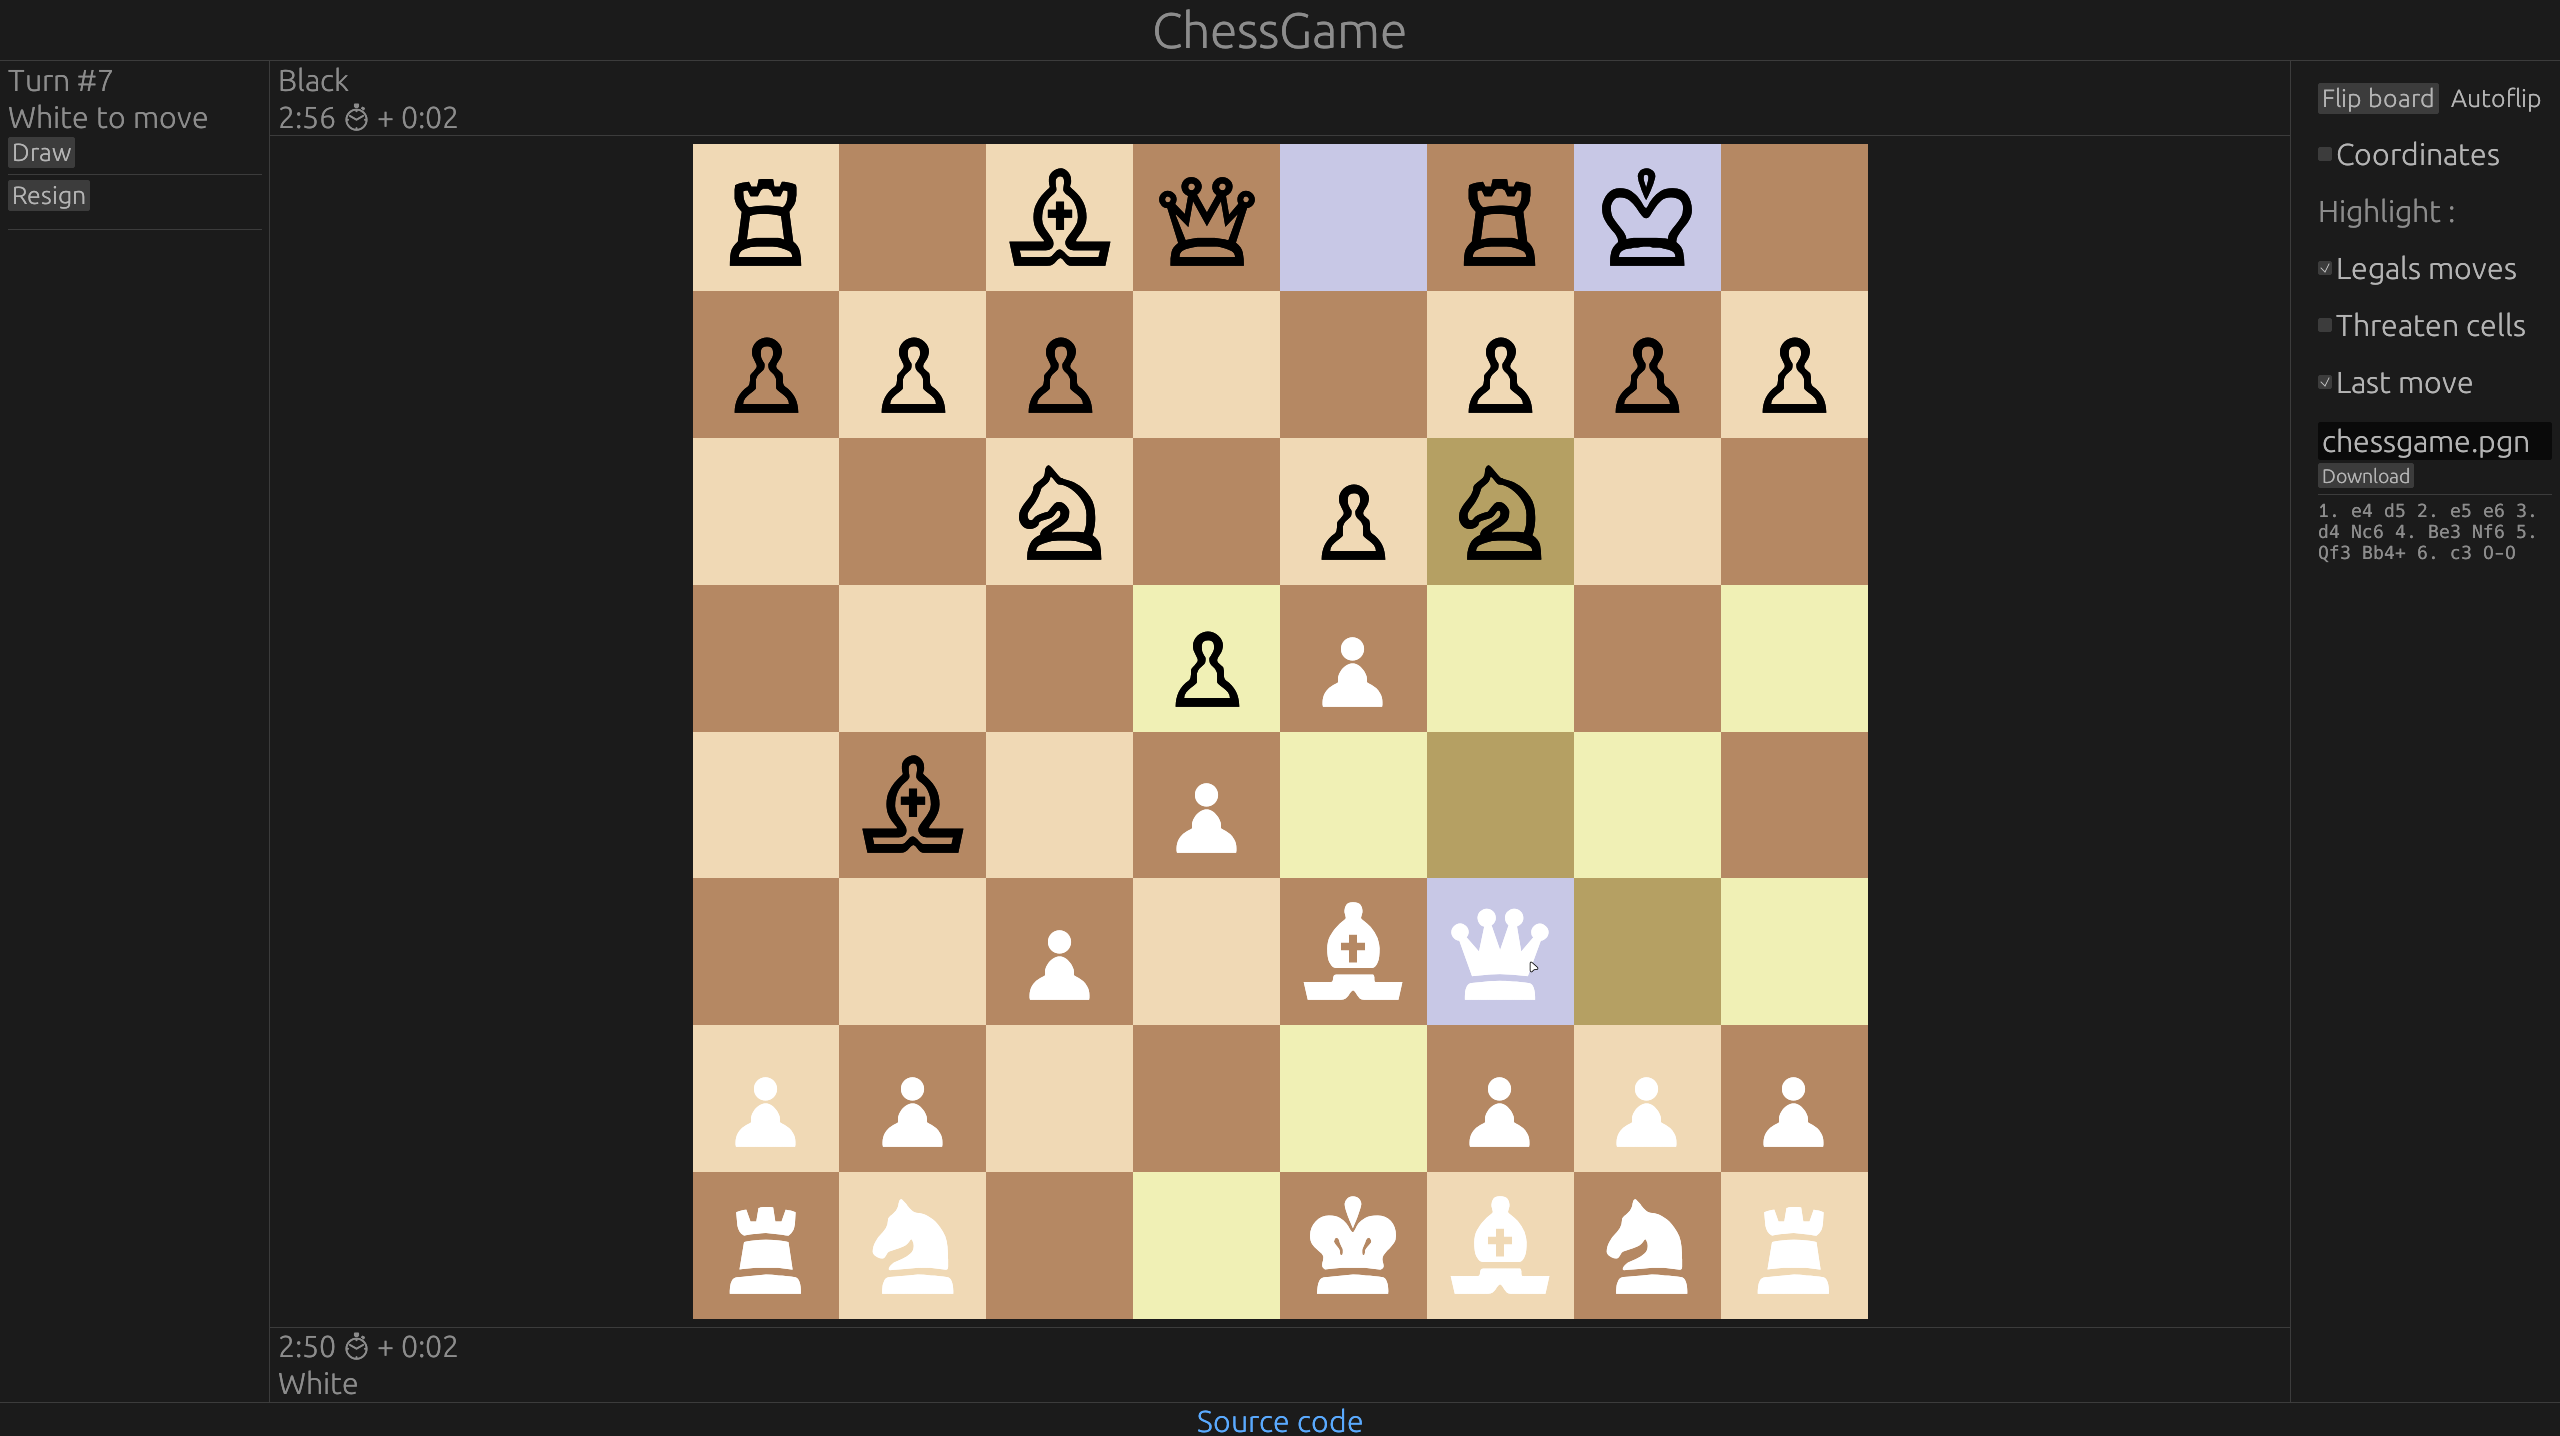
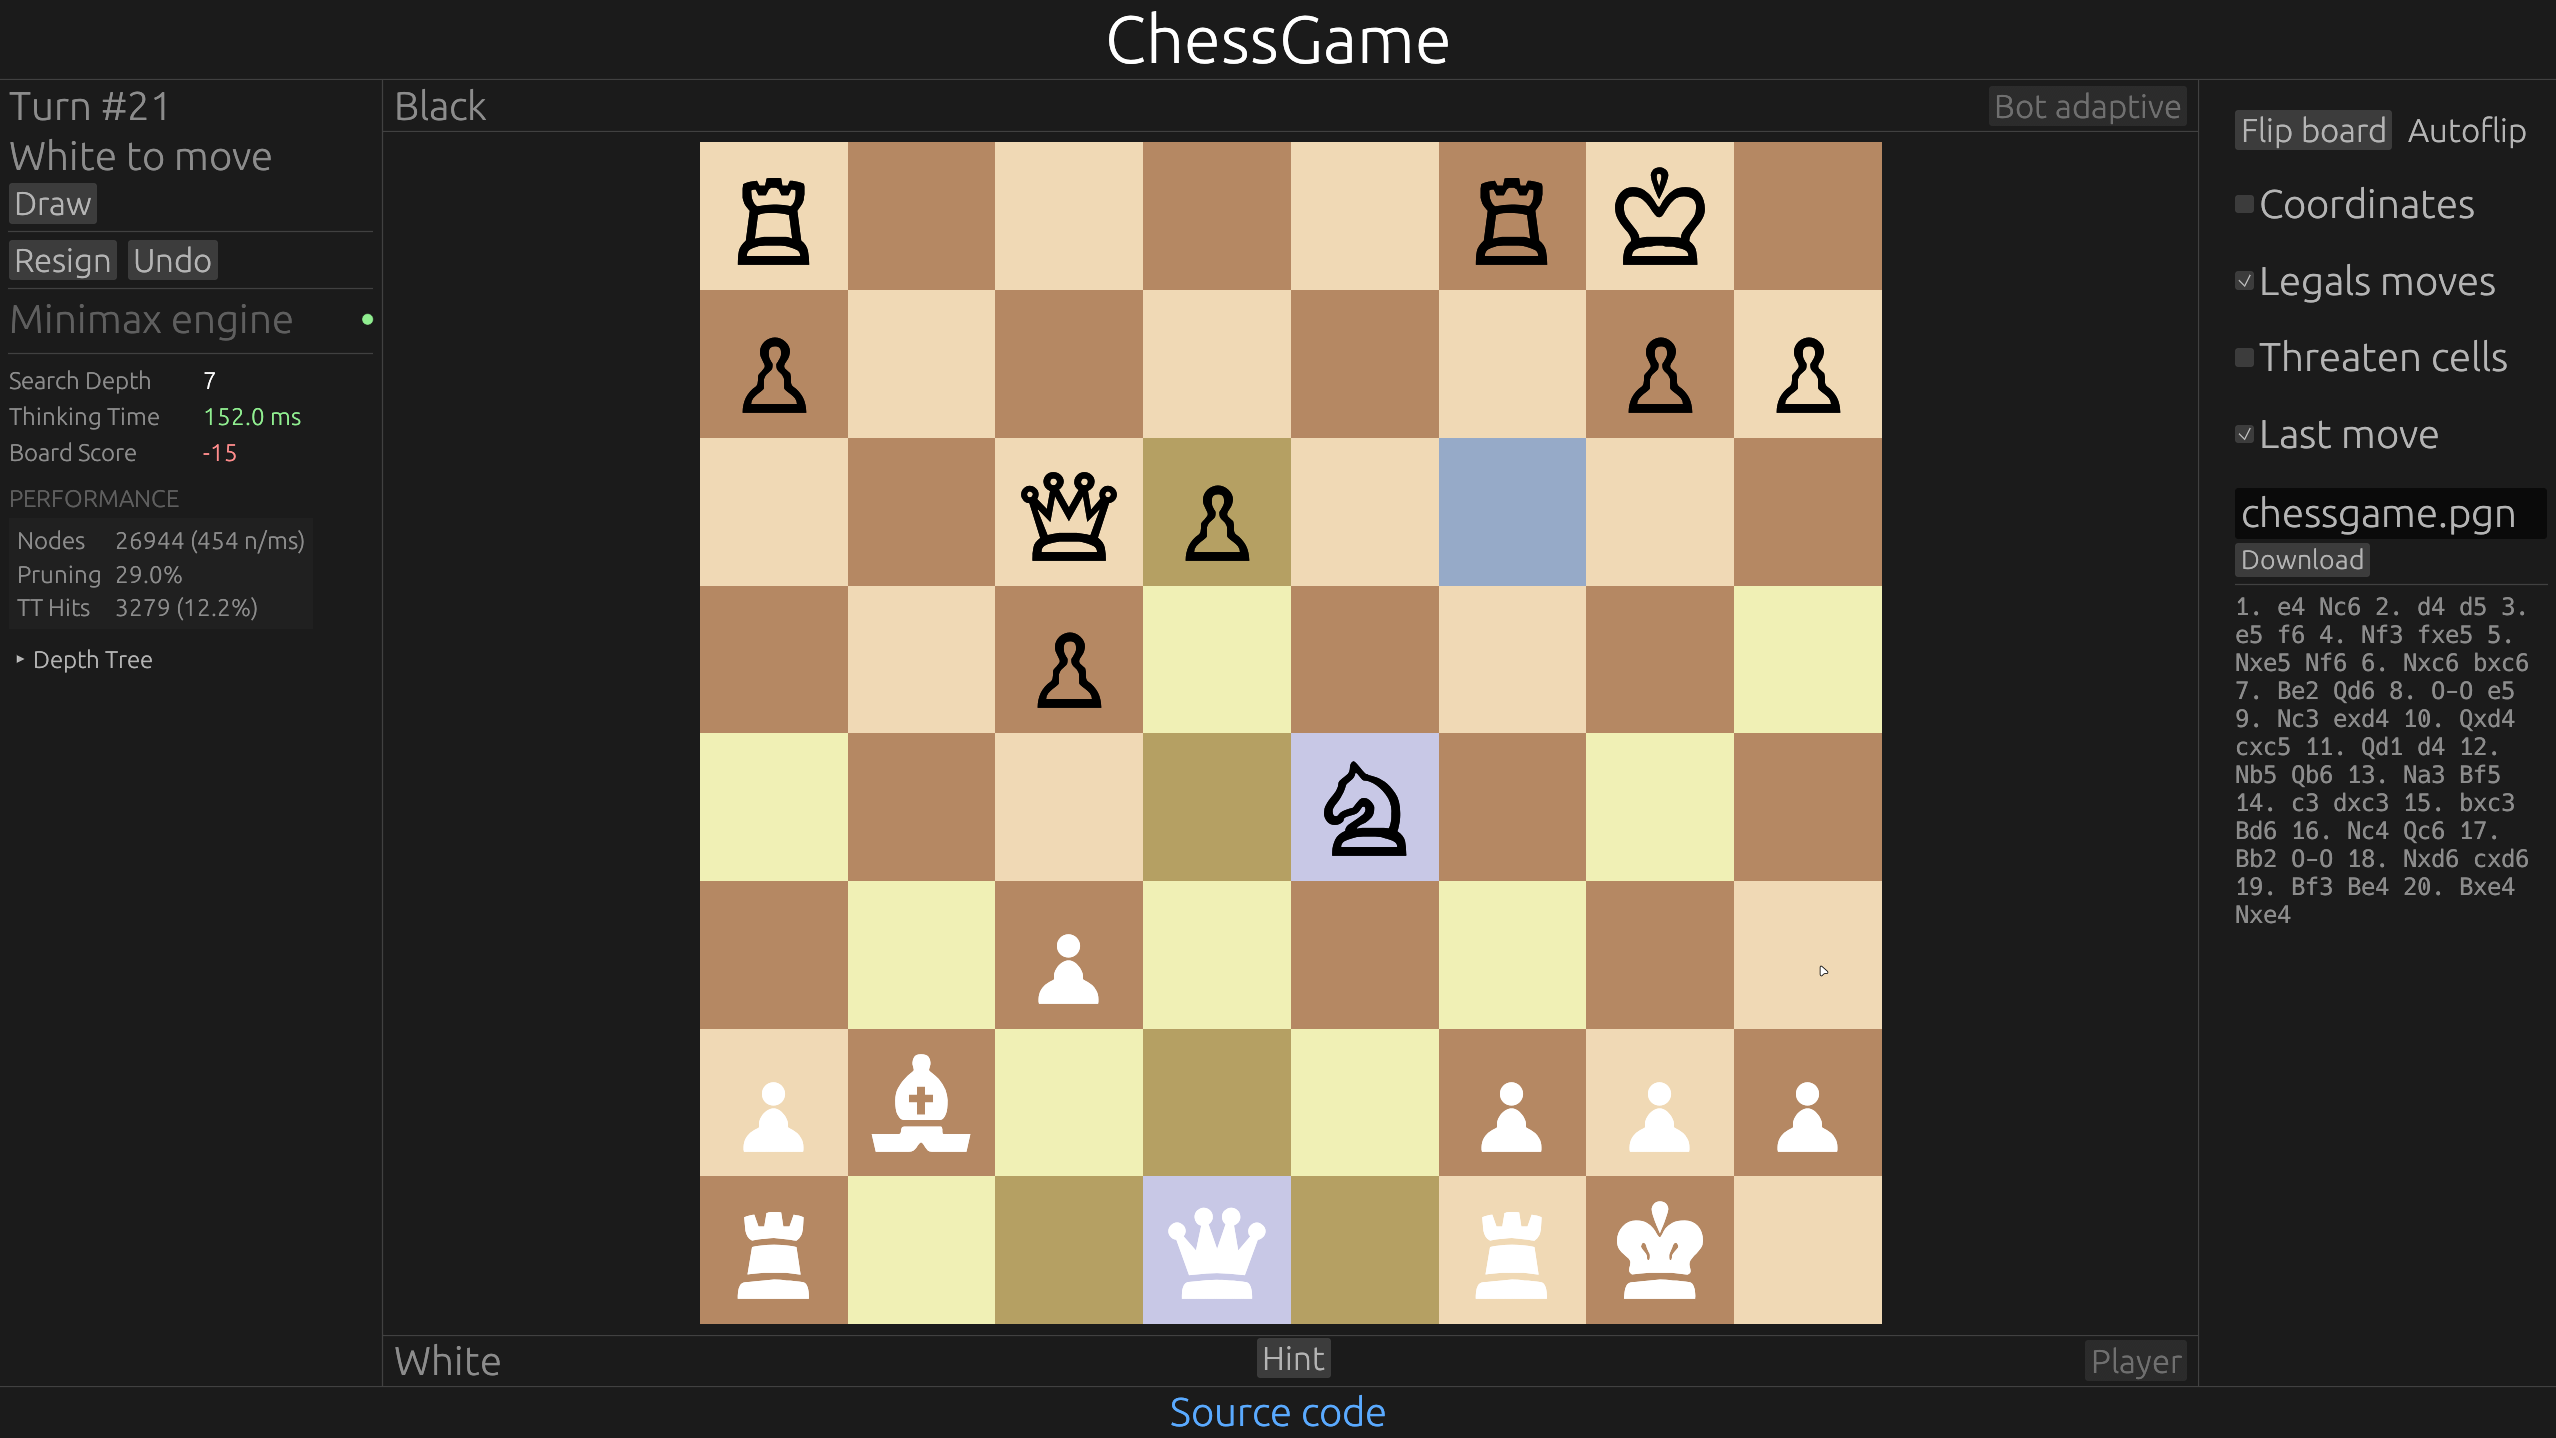
new assets

diff --git a/README.md b/README.md
@@ -1,19 +1,22 @@
-# ChessGame ♟
-
-[![CI](https://github.com/LeMuffinMan/ChessGame/actions/workflows/deploy.yml/badge.svg)](https://github.com/LeMuffinMan/ChessGame/actions/workflows/deploy.yml)
-
-<p align="center">
+<table>
+<tr>
+<td><h1>ChessGame ♟</h1></td>
+<td align="right">
   <a href="https://lemuffinman.github.io/ChessGame/"><img src="https://img.shields.io/badge/demo-live-brightgreen" alt="Live Demo" /></a>
   &nbsp;
   <strong><a href="https://lemuffinman.github.io/ChessGame/">▶ Play</a></strong>
-</p>
+</td>
+</tr>
+</table>
+
+[![CI](https://github.com/LeMuffinMan/ChessGame/actions/workflows/deploy.yml/badge.svg)](https://github.com/LeMuffinMan/ChessGame/actions/workflows/deploy.yml)
 
 ---
 
 I built this project to learn Rust on something real, not exercises or tutorials. Chess felt like the right choice: the rules are complex enough to punish bad design (and they did), the algorithms are well-documented, and the Chess Programming Wiki became my bible over the intense sprints I spent on this project. Seeing how simple evaluation criteria can lead to natural openings, then improving until you get mated by the algorithm you built... that was quite the motivation to keep going. I now aim to integrate UCI to measure its Elo against other engines.
 
 **A well-placed hint.**
-A friend who pushed me to start this project gave me one early nudge: model the board around `enum Cell { Occupied(Piece, Color), Free }`. That was enough to get started. Following that thread, I found myself reaching naturally for exhaustive pattern matching, `Option<Coord>` for en passant and check state where null is impossible by construction, traits for abstraction without overhead. Rust’s design makes good patterns feel obvious, and I gradually came to appreciate how much the language was guiding me.
+A friend who suggested I give Rust a try pointed me toward one early design choice: model the board around `enum Cell { Occupied(Piece, Color), Free }`. That was enough to get started. Following that thread, I found myself reaching naturally for exhaustive pattern matching, `Option<Coord>` for en passant and check state where null is impossible by construction, traits for abstraction without overhead. Rust’s design makes good patterns feel obvious, and I gradually came to appreciate how much the language was guiding me.
 
 **From 3 seconds to 300ms.**
 Without parallelism on WASM or threads on native, the goal was to push depth as far as possible within a 300ms budget. What made it satisfying was that each bottleneck was measurable: clearing one felt like unlocking resources to invest in intelligence instead. The story starts at depth 5 taking 3 seconds, purest minimax with no pruning. Alpha-beta alone cut that by an order of magnitude. Move ordering (MVV-LVA, killers, history) pushed the branching factor down further. Replacing the per-leaf evaluation with an incremental score inside `apply` and `undo` removed that overhead entirely. Then a Transposition Table (1M entries in a fixed `Vec`, indexed by Zobrist hash, with generation counters) collapsed the tree on repeated positions. Depth 5 now runs in under 30ms, depth 11 around 300ms.
